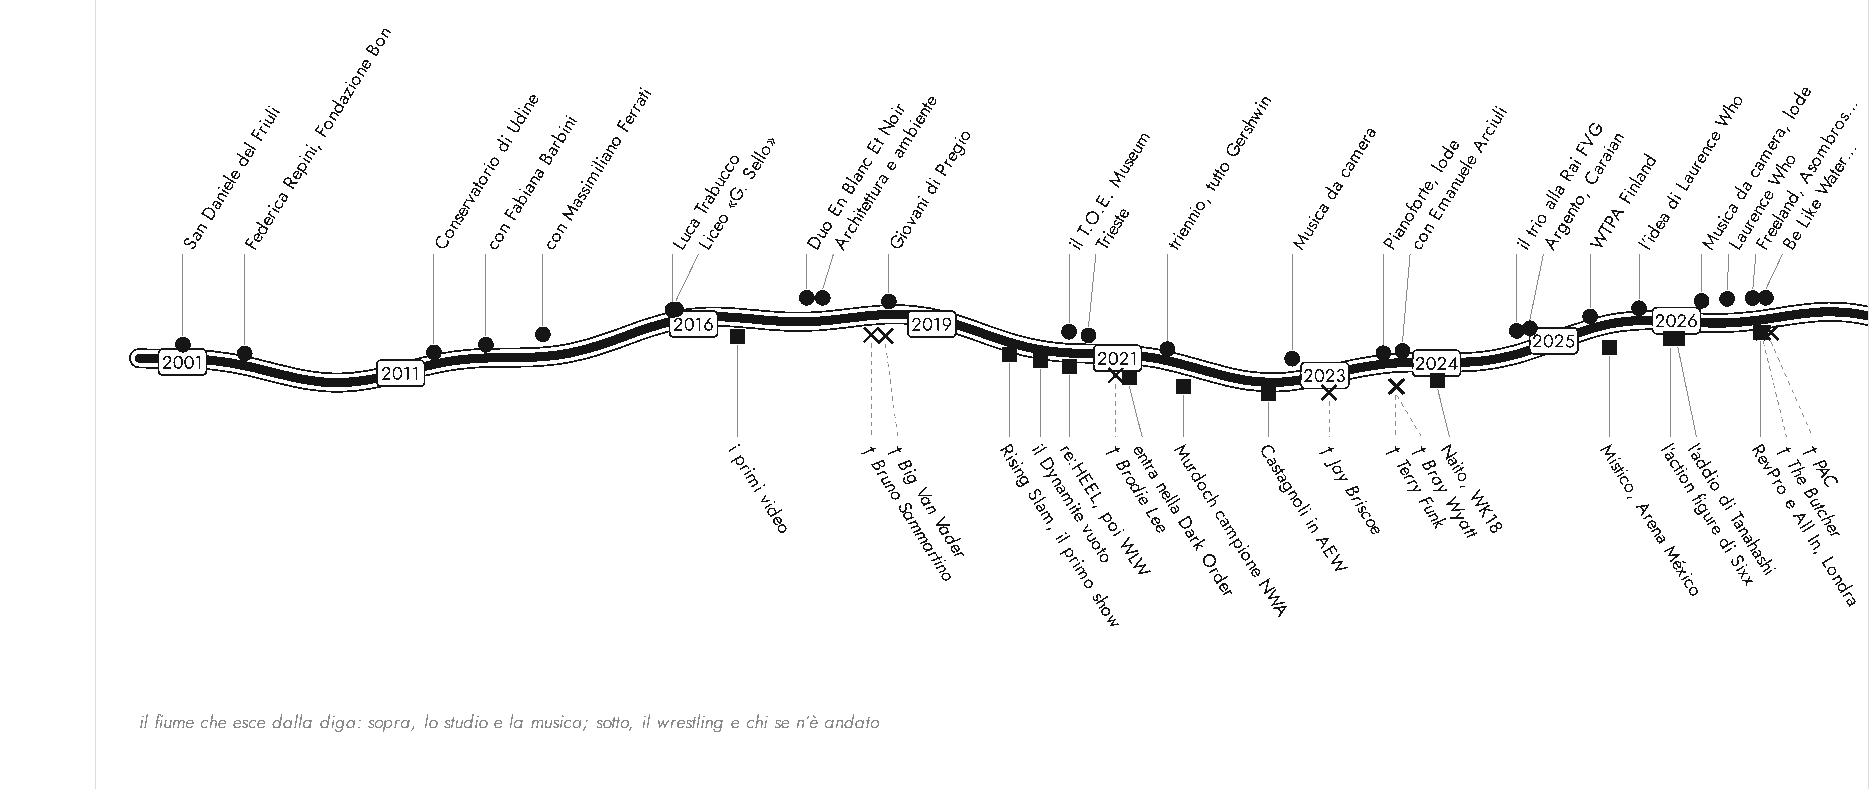
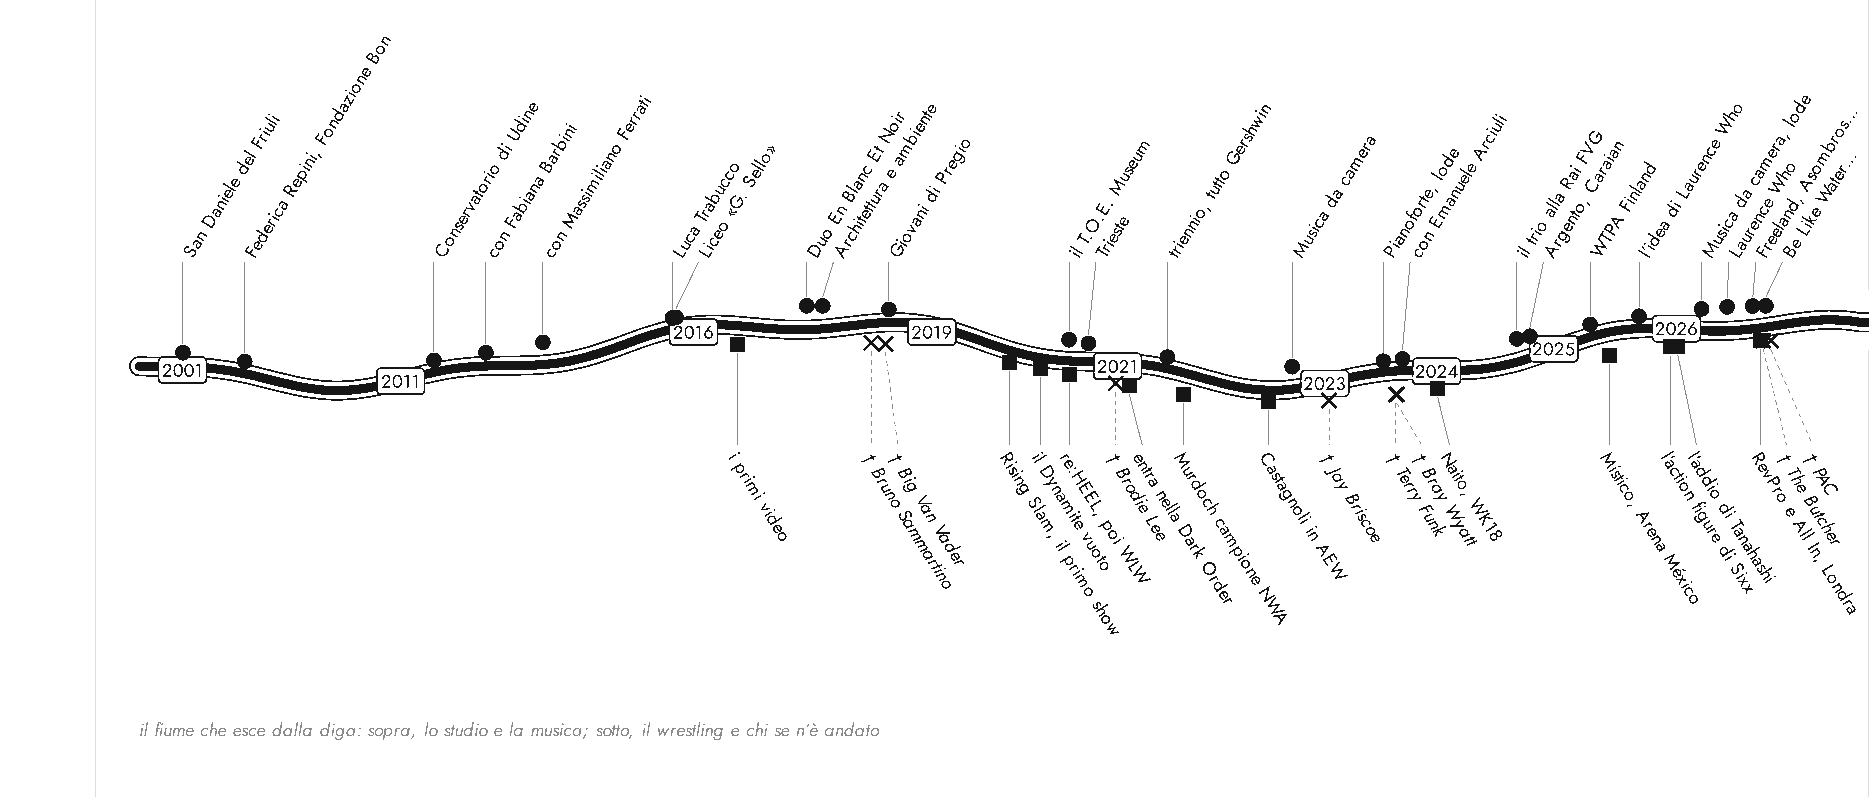
Square: river aligned to the Pascoli across the fold and extended to the edge; larger page numbers
Claude-Session: https://claude.ai/code/session_019JbaDBCGLVw17cXHwFzNMw

diff --git a/square/index.html b/square/index.html
@@ -45,7 +45,7 @@ body { background: var(--desk); color: var(--ink); font-family: Inter, "Helvetic
 .page.sx .area { left: var(--outer); right: var(--inner); }
 .page .testata { position: absolute; top: 44px; font-size: 10px; color: var(--grey); }
 .page.sx .testata { left: var(--outer); } .page.dx .testata { right: var(--outer); }
-.page .folio { position: absolute; bottom: 42px; font-size: 10px; font-weight: 500; }
+.page .folio { position: absolute; bottom: 44px; font-size: 11.5px; font-weight: 500; letter-spacing: .02em; }
 .page.sx .folio { left: var(--outer); } .page.dx .folio { right: var(--outer); }
 
 /* text: two columns on every text page */

diff --git a/square/capitoli/0717-da-artista.md b/square/capitoli/0717-da-artista.md
@@ -4,7 +4,7 @@ titolo: "Da artista"
 tipo: "testo"
 capitolo: "La parola dell’artista"
 immagine_fondo: "/square/media/fiume.png"
-fondo_da: 471
+fondo_da: 471.53
 ---
 
 ### Da artista
